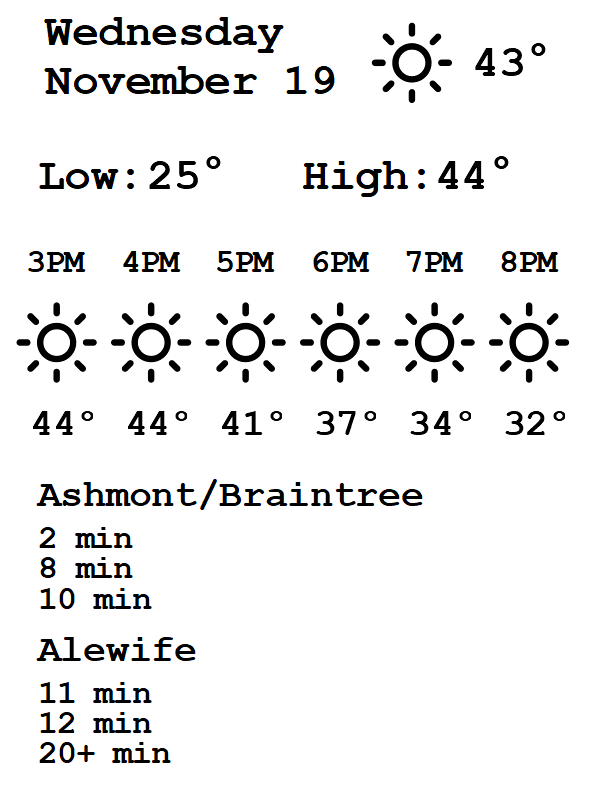
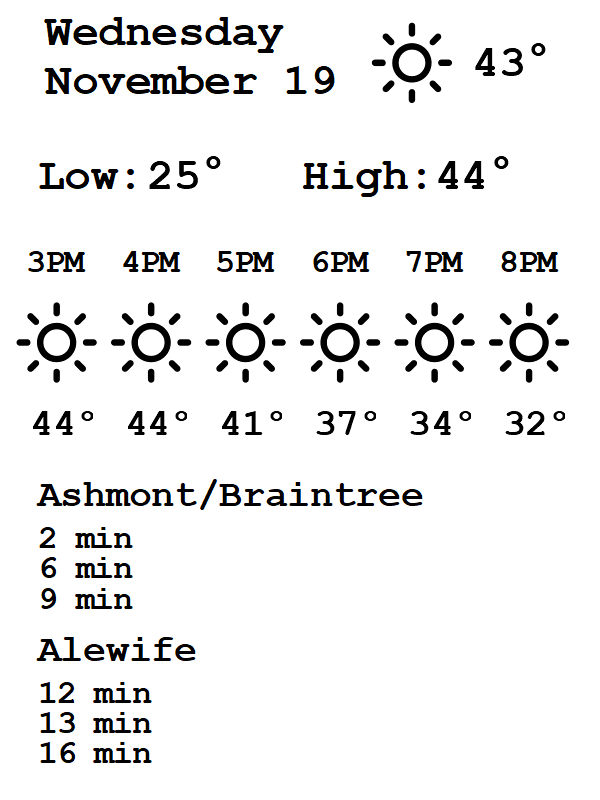
fix env variable access

Changed region(s): [[0.06, 0.6875, 0.27, 0.7812], [0.06, 0.8438, 0.3, 0.9688]]

diff --git a/server/svgedit.py b/server/svgedit.py
@@ -1,5 +1,4 @@
 import config
-import os
 import openmeteo_requests
 import requests_cache
 import pandas as pd
@@ -7,11 +6,7 @@ from retry_requests import retry
 from lxml import etree
 import re 
 from datetime import datetime, timedelta
-from dotenv import load_dotenv
 from zoneinfo import ZoneInfo
-import json
-
-load_dotenv()
 
 cache_session = requests_cache.CachedSession('.cache', expire_after = 3600)
 retry_session = retry(cache_session, retries = 5, backoff_factor = 0.2)
@@ -69,7 +64,7 @@ def get_display_time(diff_time, vehicle, stops, station_name):
     stop_id = vehicle['relationships']['stop']['data']['id']
     stop_name = stops[stop_id]['attributes']['name']
 
-    if status == 'STOPPED_AT' and stop_name == 'CENTRAL':
+    if status == 'STOPPED_AT' and stop_name == station_name:
         return 'BRD'
     elif diff_time <= timedelta(seconds = 30):
         return 'ARR' # arriving
@@ -205,3 +200,5 @@ def update_svg():
 
     # updated svg
     xml.write('static/dash.svg')
+
+update_svg()

diff --git a/server/config.py b/server/config.py
@@ -1,6 +1,7 @@
 import os
+from dotenv import load_dotenv
 
-TIMEZONE = 'America/New_York'
+load_dotenv()
 
 METEO_URL = "https://api.open-meteo.com/v1/forecast"
 METEO_PARAMS = {
@@ -9,15 +10,17 @@ METEO_PARAMS = {
     "hourly":  ["temperature_2m", "weather_code"],
     "current": ["temperature_2m", "weather_code"],
     "daily":   ["temperature_2m_max", "temperature_2m_min"],
-    "timezone": TIMEZONE,
+    "timezone": "America/New_York",
     "wind_speed_unit": "mph",
     "temperature_unit": "fahrenheit",
     "precipitation_unit": "inch",
     "forecast_days": 2
 }
 
+TIMEZONE = 'America/New_York'
 MBTA_URL = 'https://api-v3.mbta.com/predictions?filter[stop]=place-cntsq&include=vehicle,vehicle.stop'
 MBTA_PARAMS = {
     "api_key": os.getenv('MBTA_KEY')
 }
 STATION_NAME = 'CENTRAL'
+
